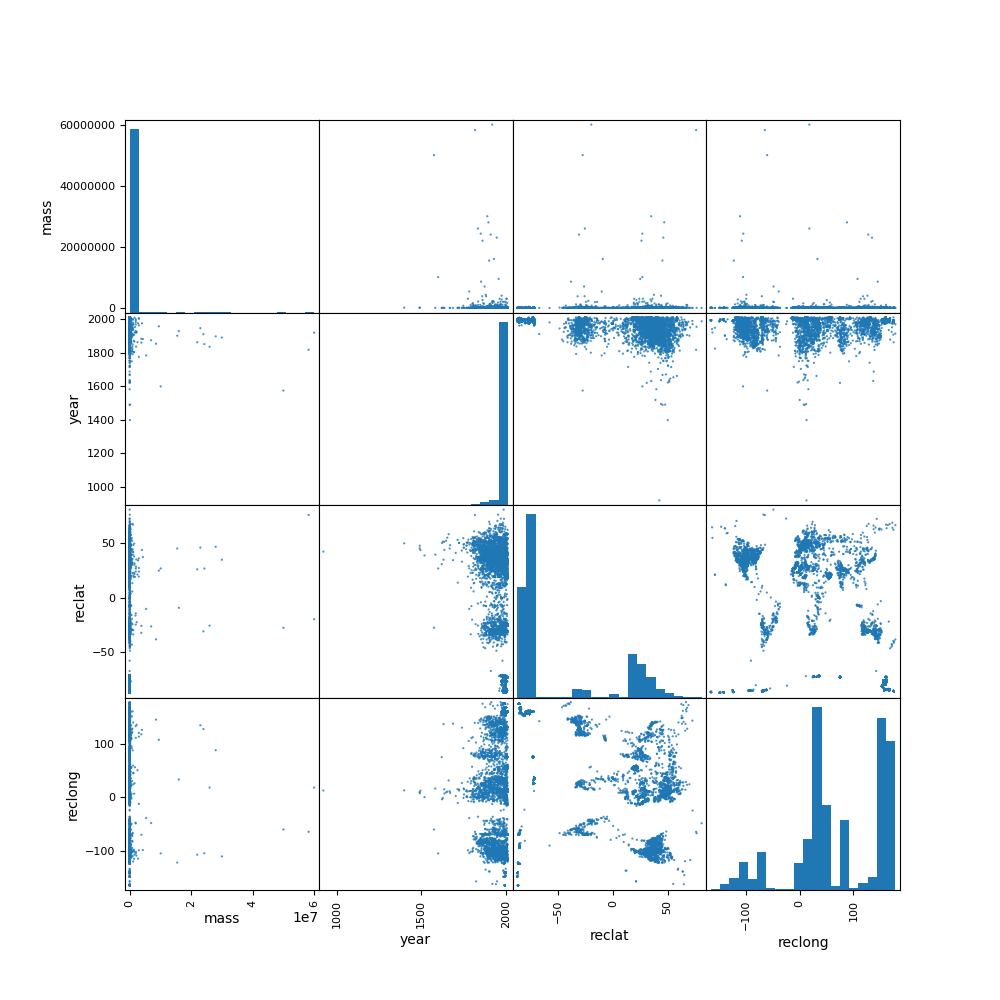
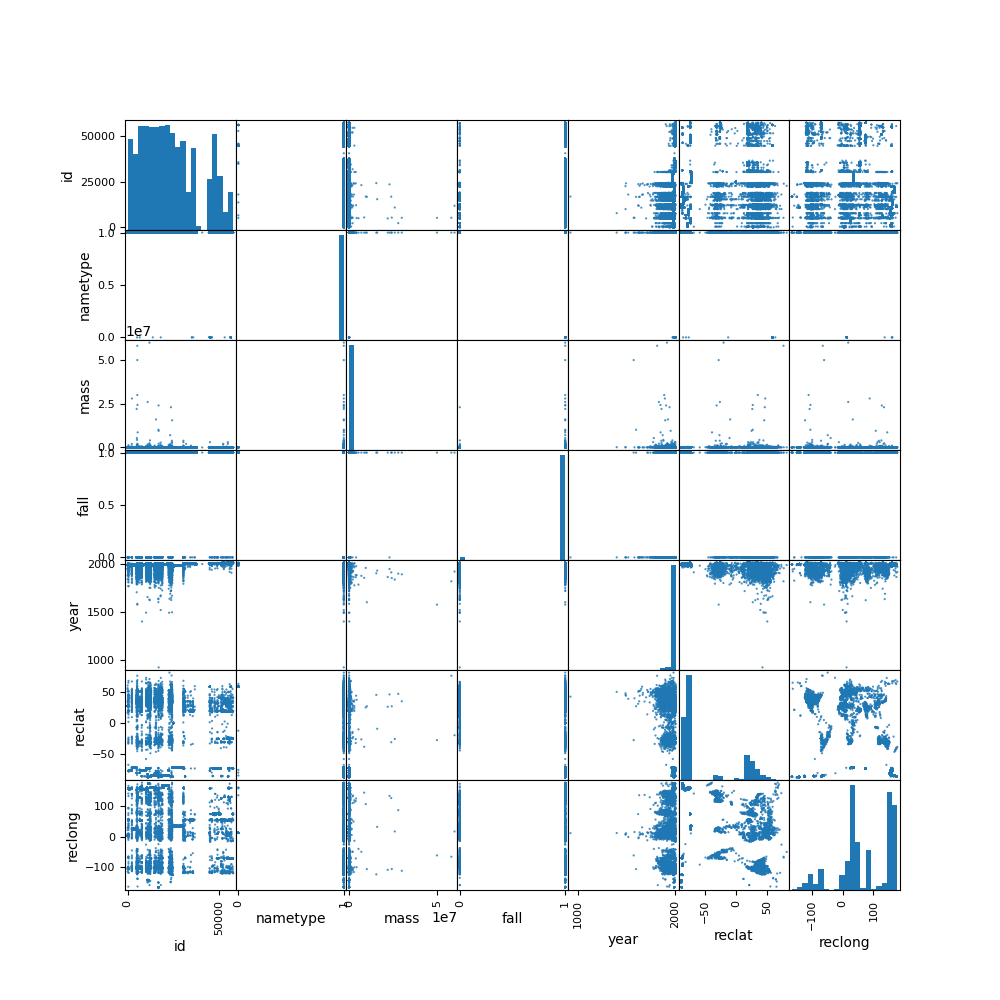
cleaned up helper.py file

diff --git a/src/helper/helper.py b/src/helper/helper.py
@@ -1,0 +1,115 @@
+import os.path
+import torch
+import pandas as pd
+import matplotlib.pyplot as plt
+
+def create_filtered_csv_data(path: str) -> None:
+    """
+    Create new filterd csv dataset.
+    The following incorrectly parsed entries are filtered:
+    - Date that is before 860 CE or after 2016
+    - Latitude and longitude of 0N/0E
+
+    :param path: String name of path
+    :return: None
+    """
+    try:
+        df = pd.read_csv(path)
+    except FileNotFoundError:
+        raise AssertionError(f"File '{path}' does not exist.")
+
+    for x in df.index:
+        if df.loc[x, "year"] <= 860 or df.loc[x, "year"] >= 2016 \
+            or (df.loc[x, "reclong"] == 0.0 and df.loc[x, "reclat"] == 0.0) \
+            or (df.loc[x, "reclong"] < -180.0 or df.loc[x, "reclong"] > 180.0):
+            df.drop(x, inplace = True)
+
+    path_filtered_data = "data/meteorite-landings-filtered.csv"
+    df.to_csv(path_filtered_data, index=False)
+
+def get_filtered_csv_data(path: str) -> pd.DataFrame:
+    """ 
+    Get filtered csv data.
+
+    :param path: String name of path
+    :return: pd.DataFrame containing filtered dataset
+    """
+    if not os.path.isfile(path):
+        print(f"File '{path}' does not exist. Creating new filtered dataset from original dataset.")
+        path_original_data = "data/archive/meteorite-landings.csv" 
+        create_filtered_csv_data(path_original_data)
+        
+    return pd.read_csv(path)
+
+def convert_categorical_to_numerical(df: pd.DataFrame, col_names: list[str]) -> pd.DataFrame:
+    """
+    Convert the categorical data into numerical.
+
+    :param df: pd.DataFrame containing the dataset
+    :param col_names: List of column names 
+    :return: pd.DataFrame containing converted dataset
+    """
+    for col_name in col_names:
+        df[col_name] = df[col_name].astype("category")
+        # print(len(df[col_name].cat.categories))
+
+    cat_columns = df.select_dtypes(['category']).columns
+    df[cat_columns] = df[cat_columns].apply(lambda x: x.cat.codes)
+    return df
+
+def get_device() -> str:
+    """
+    Get device name used to accelerate operations if present.
+    If not present, use the cpu.
+
+    :return: String name of device
+    """
+    device = torch.accelerator.current_accelerator().type if torch.accelerator.is_available() else "cpu"
+    return device
+
+def _plot_pairplot(df: pd.DataFrame) -> None:
+    """
+    Plot and save a pairplot of the data.
+
+    :param df: pd.DataFrame containing the dataset
+    :return: None
+    """
+    pd.plotting.scatter_matrix(df, figsize=(10, 10),  hist_kwds = {'bins': 20}, s = 10, alpha = 0.8)
+    plt.savefig("plots/pairplot_numerical_data.png")
+
+
+def _plot_geolocation(df: pd.DataFrame) -> None:
+    """
+    Plot and save the geolocation of meteorite data.
+    - reclong == longitude
+    - reclat  == lattitude
+
+    :params df: pd.DataFrame containing the dataset
+    :return: None
+    """
+    fig, ax = plt.subplots(figsize=(10, 7))
+    fig.suptitle("Geolocation of meteorites", fontsize = 16)
+    ax.scatter(
+        x=df["reclong"] , 
+        y=df["reclat"],
+        marker='.',
+        color="blue"
+    )
+    ax.set(
+        xlabel = "reclong [rad]",
+        ylabel = "reclat [rad]"
+    )
+    
+    plt.savefig("plots/meteorite_geolocation.png")
+
+def plot_data(df: pd.DataFrame) -> None:
+    """
+    Plot and show the data.
+
+    :params df: pd.DataFrame containing the dataset
+    :return: None
+    """
+    # num_df = df[["mass", "year", "reclat", "reclong"]]
+    # _plot_pairplot(df)
+    _plot_geolocation(df)
+    plt.show()

diff --git a/main.py b/main.py
@@ -1,16 +1,17 @@
 import pandas as pd
 import numpy as np
 
-from src.common.helpers import *
+from src.helper.helper import *
 from src.neural_networks.neural_network import NeuralNetwork
 
 def main() -> None:
     path = "data/meteorite-landings-filtered.csv"
     df = get_filtered_csv_data(path)
 
-    df = convert_categorical_to_numerical(df)
-    print(df.head(10))
-    
+    cat_col = ["nametype", "fall"]
+    df = convert_categorical_to_numerical(df, cat_col)
+    # print(df.head(5))
+
     input_size = len(df)
     output_size = len(df["recclass"].astype("category").cat.categories)
 
@@ -20,14 +21,13 @@ def main() -> None:
     num_epochs = 100
 
     device = get_device()
+    print(f"Using {device} device")
+
     model = NeuralNetwork(input_size, output_size).to(device)
     print(model)
     # X = torch.tensor(df["mass"].values, device=device)
     # print(X)
 
+    plot_data(df)
 
 if __name__ == "__main__": main()
-
-
-
-    
